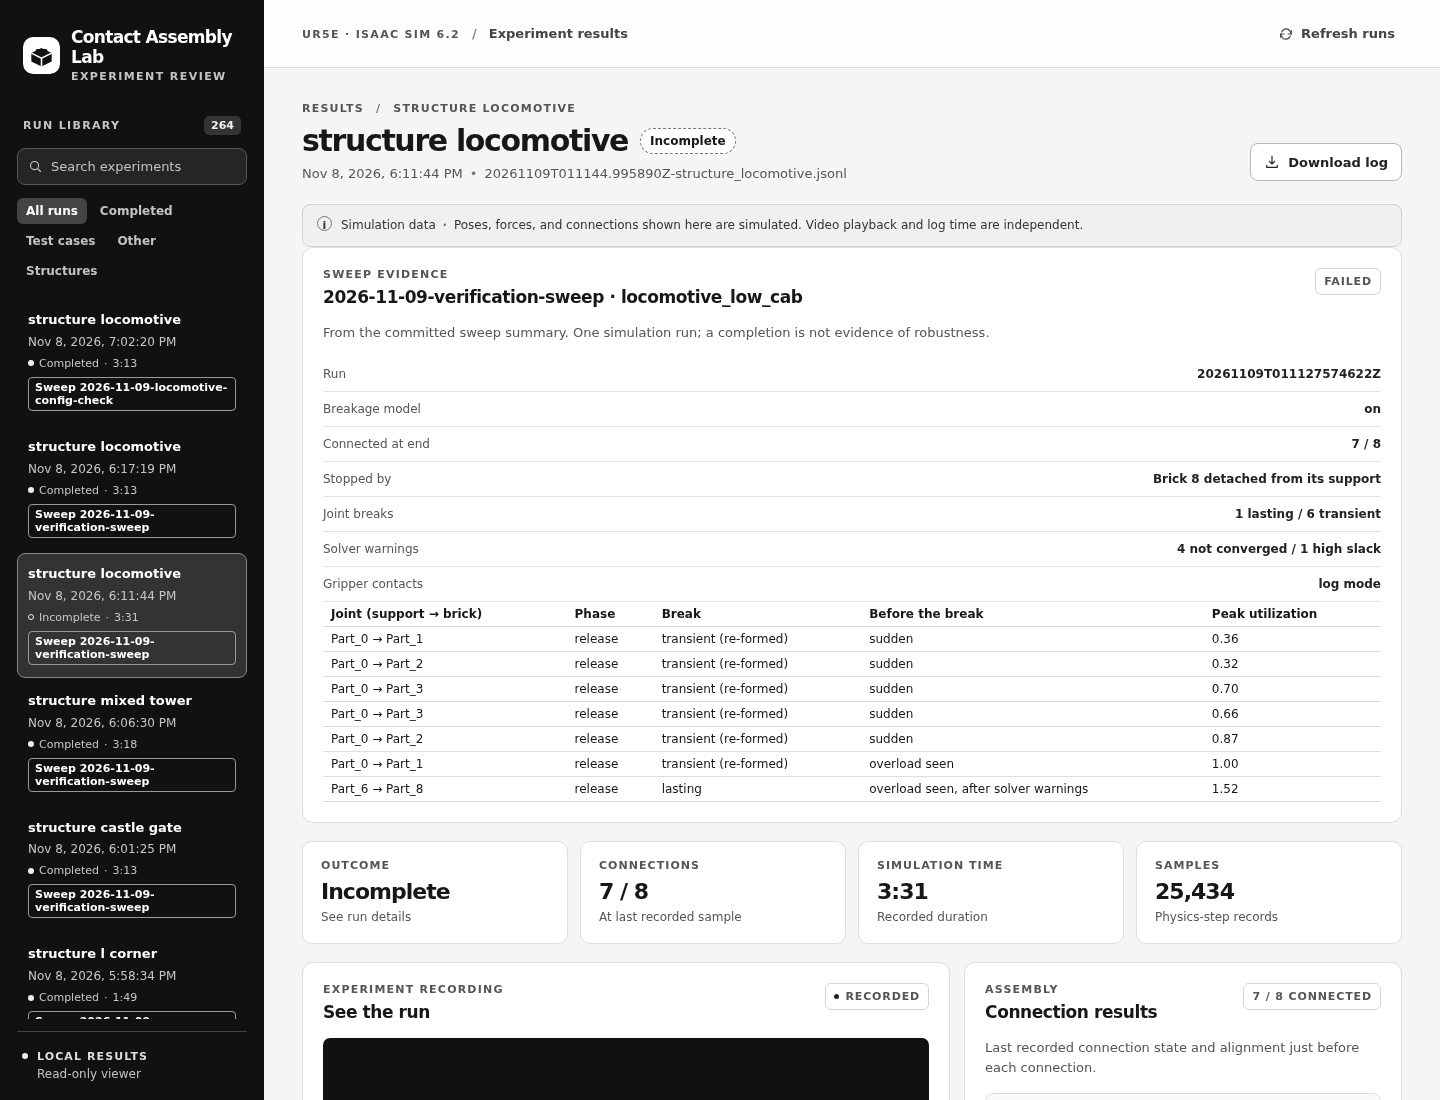
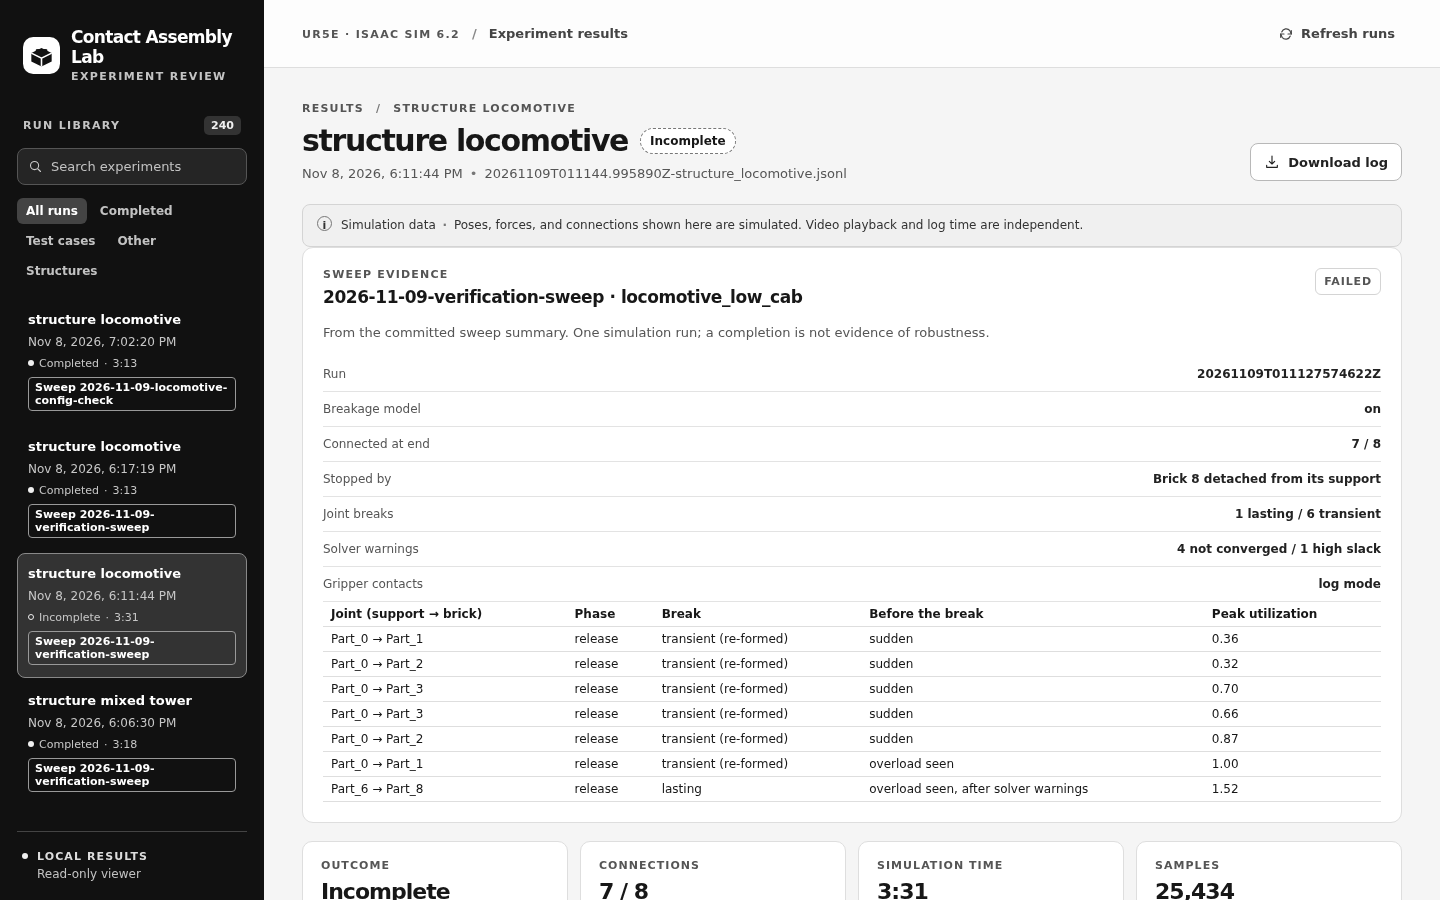
fix(dashboard): leave runs of removed structures out instead of tagging them
Recordings of structures that are no longer in the catalog (giraffe, cat,
duck, human, robot) are skipped when the run library is indexed. The run
list and run detail screenshots are recaptured (240 runs).

diff --git a/experiments/ur5e_dashboard/app.js b/experiments/ur5e_dashboard/app.js
@@ -62,11 +62,6 @@ function outcomeName(outcome) {
     : String(outcome || "Not recorded").replaceAll("_", " ");
 }
 
-/** Tell whether a run built a structure that is no longer in the library. */
-function isHistorical(run) {
-  return Boolean(run.structure) && !run.in_library;
-}
-
 /** Describe joint breaks as lasting / transient, flagging an incomplete log. */
 function breaksText(run) {
   const text = `${run.lasting_breaks} lasting / ${run.transient_breaks} transient`;
@@ -153,7 +148,7 @@ function renderRuns() {
       activeFilter === category ||
       (activeFilter === "cases" && Boolean(run.case_id));
     const text =
-      `${runTitle(run)} ${run.case_category || ""} ${run.filename} ${run.status} ${run.sweep || ""} ${isHistorical(run) ? "historical" : ""} ${isControlledRejection(run.experiment, run.created_utc) ? "intentional test" : ""}`.toLowerCase();
+      `${runTitle(run)} ${run.case_category || ""} ${run.filename} ${run.status} ${run.sweep || ""} ${isControlledRejection(run.experiment, run.created_utc) ? "intentional test" : ""}`.toLowerCase();
     return matchesFilter && text.includes(term);
   });
   byId("run-count").textContent = String(runs.length);
@@ -187,7 +182,6 @@ function renderRuns() {
       <span class="run-status"><i class="run-dot ${escapeText(category)}"></i>${escapeText(label)} <span>·</span> ${escapeText(formatTime(run.duration_s))}</span>
       ${intentional ? '<span class="run-purpose">Intentional test</span>' : ""}
       ${run.case_id ? `<span class="run-purpose">${escapeText(predictionLabel(run.case_as_predicted))}</span>` : ""}
-      ${isHistorical(run) ? '<span class="run-purpose">Historical · not in the current library</span>' : ""}
       ${run.sweep ? `<span class="run-purpose">Sweep ${escapeText(run.sweep)}</span>` : ""}`;
     button.addEventListener("click", () => selectRun(run.id));
     list.append(button);
@@ -452,10 +446,6 @@ async function selectRun(id) {
       byId("status").className = `status ${category}`;
       byId("scenario-badge").hidden = !intentional;
       byId("scenario-notice").hidden = !intentional;
-      byId("run-historical").hidden = !isHistorical(run);
-      byId("run-historical").textContent = isHistorical(run)
-        ? `Historical run: "${run.structure}" is not in the current structure library. This is not a current result.`
-        : "";
       const sweep = run.sweep;
       byId("sweep-panel").hidden = !sweep;
       if (sweep) {

diff --git a/experiments/ur5e_dashboard/index.html b/experiments/ur5e_dashboard/index.html
@@ -286,7 +286,6 @@
             </p>
           </section>
 
-          <p id="run-historical" class="case-failure" hidden></p>
 
           <section
             id="sweep-panel"

diff --git a/experiments/ur5e_dashboard/server.py b/experiments/ur5e_dashboard/server.py
@@ -485,6 +485,15 @@ class RunCollection:
             else {}
         )
         for identity, (path, metadata) in selected.items():
+            experiment = str(metadata.get("experiment") or "")
+            structure = (
+                experiment.removeprefix("structure_")
+                if experiment.startswith("structure_")
+                else None
+            )
+            # Structures removed from the catalog are left out of the dashboard.
+            if structure is not None and library and structure not in library:
+                continue
             run_id = sha256(fsencode(path)).hexdigest()[:20]
             try:
                 stat = path.stat()
@@ -632,19 +641,12 @@ class RunCollection:
                         f"Representative video from case {source}; "
                         "it does not show this run."
                     )
-            experiment = str(metadata.get("experiment") or "")
-            structure = (
-                experiment.removeprefix("structure_")
-                if experiment.startswith("structure_")
-                else None
-            )
             recording = path.with_suffix("").name if path.suffix == ".gz" else path.name
             run = dict(summary)
             run.update(
                 {
                     "id": run_id,
                     "structure": structure,
-                    "in_library": structure is not None and structure in library,
                     "sweep": sweep_evidence.get(recording),
                     "filename": path.name,
                     "video": video is not None,
@@ -850,7 +852,6 @@ class DashboardHandler(BaseHTTPRequestHandler):
                             "as_predicted"
                         ),
                         "structure": run["structure"],
-                        "in_library": run["in_library"],
                         "sweep": (run["sweep"] or {}).get("sweep"),
                     }
                     for run in runs

diff --git a/experiments/ur5e_dashboard/test_server.py b/experiments/ur5e_dashboard/test_server.py
@@ -758,8 +758,8 @@ class ResultsViewerTests(TestCase):
             worker.join(timeout=5)
             server.server_close()
 
-    def test_runs_carry_sweep_evidence_and_historical_structures(self) -> None:
-        """Sweep summaries attach to their recording; removed structures are marked."""
+    def test_runs_carry_sweep_evidence_and_skip_removed_structures(self) -> None:
+        """Sweep summaries attach to recordings; removed structures are left out."""
         header = dumps(
             {"kind": "metadata", "experiment": "structure_beta", "created_utc": "b"}
         )
@@ -796,15 +796,12 @@ class ResultsViewerTests(TestCase):
         runs = {run["filename"]: run for run in self.collection.refresh()}
         beta = runs["beta.jsonl"]
         self.assertEqual(beta["structure"], "beta")
-        self.assertTrue(beta["in_library"])
         self.assertEqual(beta["sweep"]["sweep"], "check")
         self.assertEqual(beta["sweep"]["transient_breaks"], 1)
         self.assertFalse(beta["sweep"]["event_log_complete"])
         self.assertNotIn("settings", beta["sweep"])
-        self.assertFalse(runs["gone.jsonl"]["in_library"])
-        self.assertIsNone(runs["gone.jsonl"]["sweep"])
+        self.assertNotIn("gone.jsonl", runs)
         self.assertIsNone(runs["sample-stack-four.jsonl"]["structure"])
-        self.assertFalse(runs["sample-stack-four.jsonl"]["in_library"])
 
 
 if __name__ == "__main__":

diff --git a/README.md b/README.md
@@ -104,8 +104,6 @@ Times are shown in the viewer's local time (MST).
 | Locomotive: 2/2 completed with its saved 0.5 s release; latest is the config-check run `20261109T020147942410Z` (0 lasting / 1 transient break, 0 solver warnings, event log incomplete). The 1 s default failed 7/8. | Table: not buildable yet (no room for the RG2 fingers between legs 2 studs apart); 0/2 completed. |
 | ![Run list and sweep evidence](docs/media/dashboard_overview.png) | ![Failed run detail](docs/media/dashboard_run_detail.png) |
 | Run library: each recording tagged with its sweep; the locomotive config-check run with its sweep evidence. | Locomotive at the 1 s default release (`20261109T011127574622Z`): failed 7/8, 1 lasting / 6 transient breaks, 4 non-converged / 1 high-slack warnings, each removed joint. The recording reads "Incomplete" because the run raised before writing its end record. |
-| ![Historical run](docs/media/dashboard_run_historical.png) | |
-| Runs of removed structures (giraffe, cat, duck, human, robot) are tagged historical, not current results. | |
 
 ## Reproducibility
 

diff --git a/experiments/ur5e_dashboard/README.md b/experiments/ur5e_dashboard/README.md
@@ -67,8 +67,8 @@ A recording that a sweep summary lists is tagged with its sweep in the run
 list, and its run page shows that summary: breakage on or off, what stopped
 the controller, lasting and transient joint breaks, solver warnings, and each
 removed joint. When the console event log was incomplete, breaks and warnings
-are lower bounds. A recording of a structure that is no longer in the catalog
-is tagged historical and is not a current result.
+are lower bounds. Recordings of structures that are no longer in the catalog
+are left out of the dashboard.
 
 All current logs are simulation data. Tool and part poses are in the world
 frame, placement errors are in the support frame, joint angles are radians,
